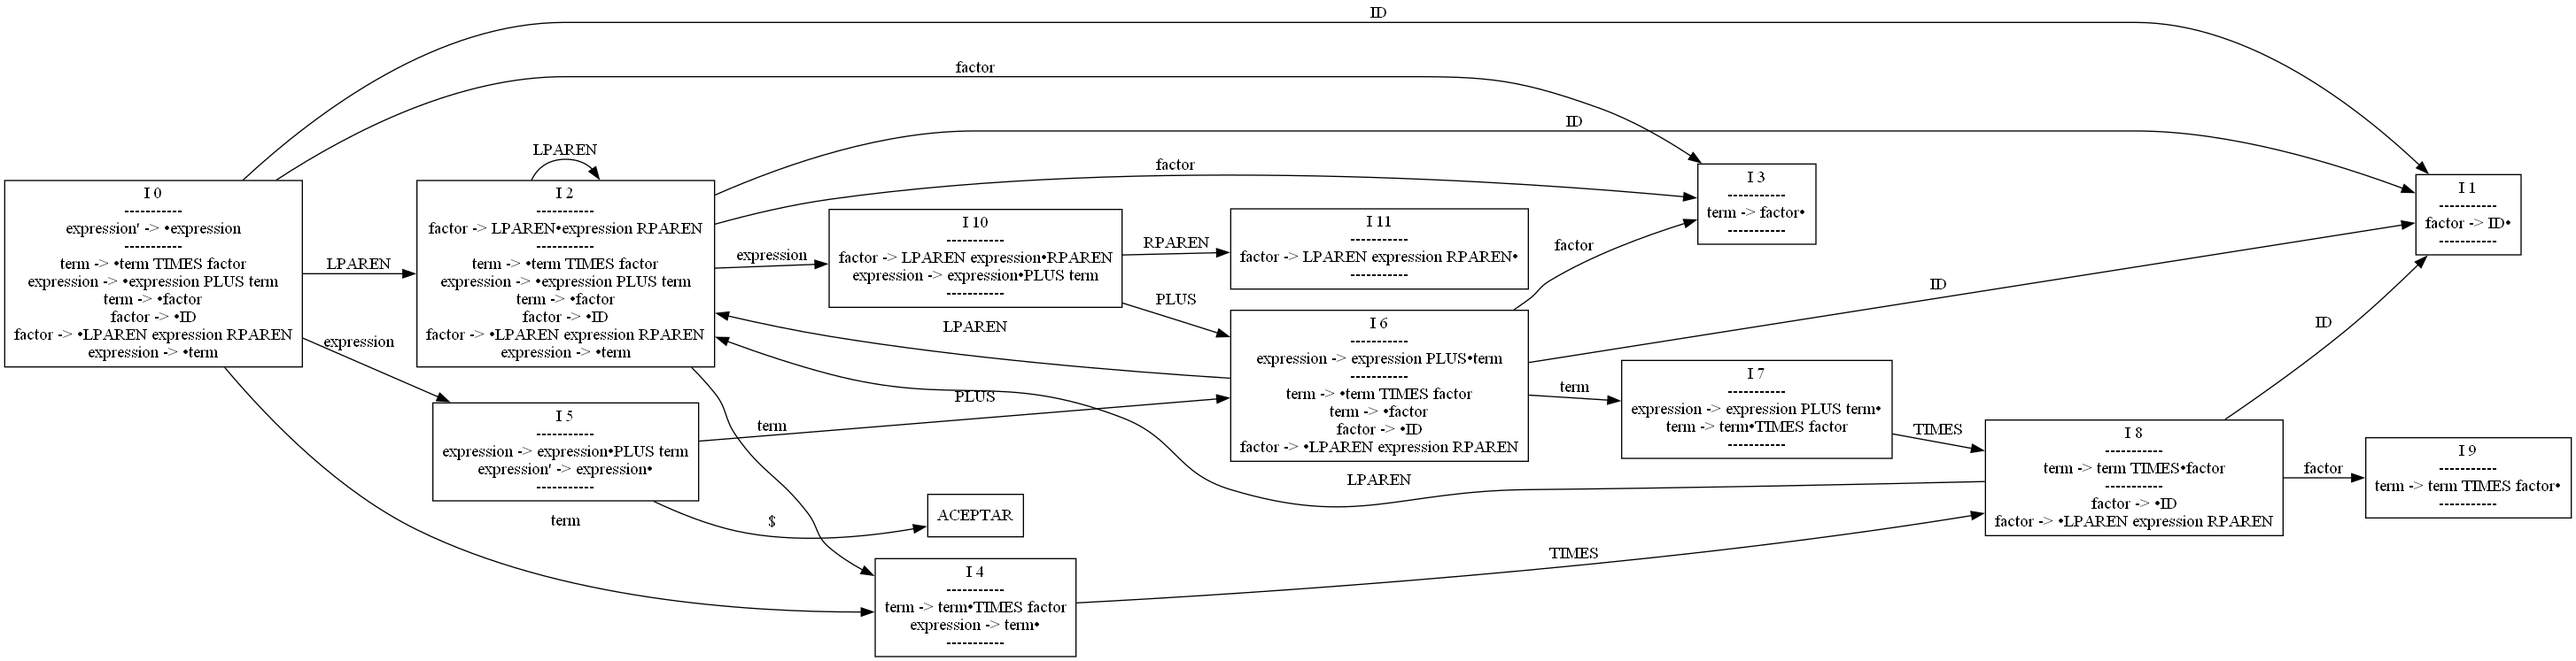
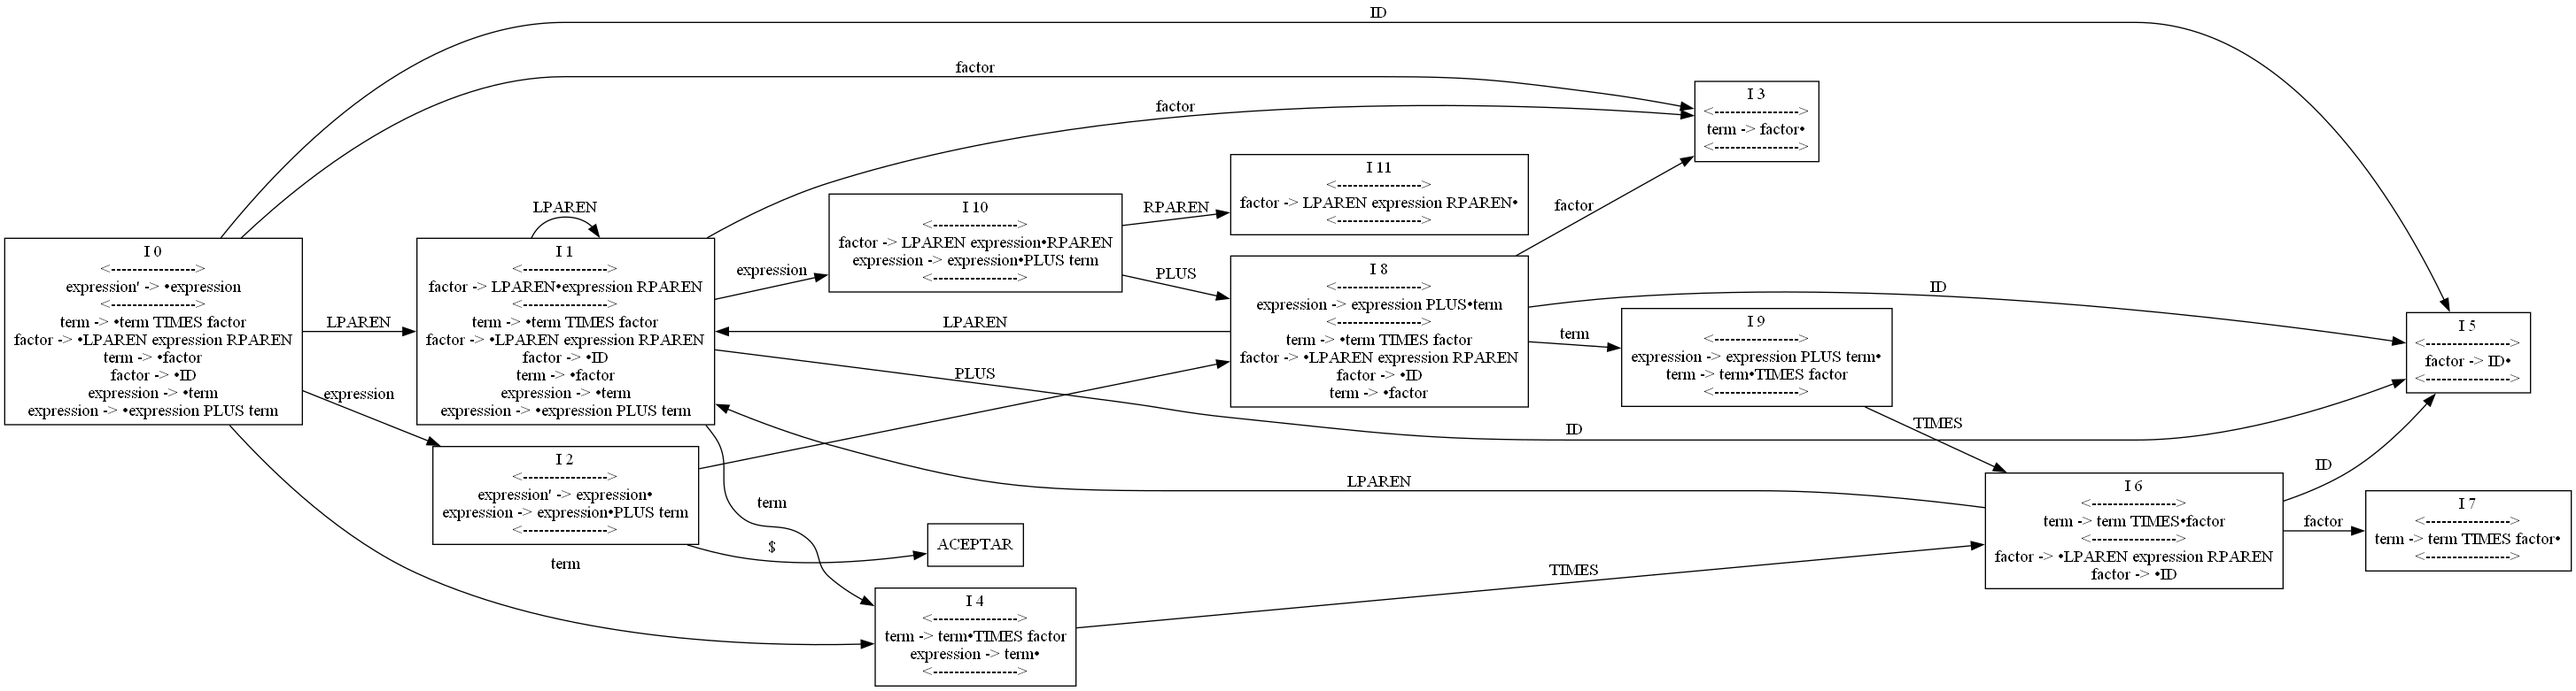
comprobar los tokens del lex para actuar en el yalp

diff --git a/LabE.py b/LabE.py
@@ -3,21 +3,27 @@ from LL import first_sets, follow_sets
 from graficar import dibujar_lr0
 import re
 
+# toma el nombre del archivo YALP como argumento y devuelve el contenido del archivo como una cadena
 
-def read_yalp_file(filename):
+
+def leer_yalp(filename):
     with open(filename, 'r') as file:
         content = file.read()
     return content
 
+# toma el contenido del archivo YALP como argumento y devuelve dos secciones separadas de tokens y producciones, eliminando la sección opcional de encabezado
 
-def split_sections(content):
+
+def separar_yalp(content):
     sections = content.split('%%')
     tokens_section = sections[0]
     productions_section = sections[1]
     return tokens_section, productions_section
 
+# procesa la sección de tokens del archivo YALP y devuelve una lista de tokens definidos en esa sección
 
-def process_tokens_section(content):
+
+def procesar_tokens(content):
     tokens = []
     lines = content.split('\n')
     for line in lines:
@@ -26,8 +32,10 @@ def process_tokens_section(content):
             tokens.extend(line_tokens)
     return tokens
 
+# procesa la sección de producciones del archivo YALP y devuelve un diccionario que contiene las reglas de producción
 
-def process_productions_section(content):
+
+def procesar_producciones(content):
     productions = {}
     content = re.sub(r'/\*.*?\*/', '', content,
                      flags=re.DOTALL)  # Eliminar comentarios
@@ -64,13 +72,17 @@ def process_productions_section(content):
                 production_rules.append(line)
     return productions
 
+# procesa el archivo completo
 
-def parse_yalp_file(filename):
-    content = read_yalp_file(filename)
-    tokens_section, productions_section = split_sections(content)
-    tokens = process_tokens_section(tokens_section)
-    productions = process_productions_section(productions_section)
+
+def procesar_yalp(filename):
+    content = leer_yalp(filename)
+    tokens_section, productions_section = separar_yalp(content)
+    tokens = procesar_tokens(tokens_section)
+    productions = procesar_producciones(productions_section)
     return tokens, productions
+
+#  toma el diccionario de producciones y devuelve una versión modificada del mismo diccionario en la que cada regla de producción se ha convertido en una lista de elementos separados por espacio
 
 
 def convert_productions(productions_dict):
@@ -79,50 +91,76 @@ def convert_productions(productions_dict):
         converted_productions[key] = [rule.split() for rule in value]
     return converted_productions
 
+# verifica si los tokens del yalp se encuentran en los tokens del lex
 
-tokens, productions_dict = parse_yalp_file('slr-1.yalp')
+
+def same_content(tokens_lex, tokens):
+    return sorted(tokens_lex) == sorted(tokens)
+
+
+archivo = input("Ingrese el nombre del archivo a ejecutar: ")
+
+# Abrir y leer el archivo
+with open(archivo + ".yal", "r") as f:
+    content = f.read()
+
+# Dividir el contenido del archivo en líneas
+lines = content.split("\n")
+
+# Buscar la línea que contiene "rule tokens"
+rule_tokens_index = None
+for i, line in enumerate(lines):
+    if re.match(r"^rule tokens = .*?$", line):
+        rule_tokens_index = i
+        break
+
+# Extraer el contenido de las llaves luego de cada token en las líneas siguientes
+tokens_lex = []
+if rule_tokens_index is not None:
+    for line in lines[rule_tokens_index + 1:]:
+        tokens_lex.extend(re.findall(r"\{\s*(.+?)\s*\}", line))
+
+
+tokens, productions_dict = procesar_yalp(archivo + '.yalp')
 converted_productions = convert_productions(productions_dict)
-# productions = [(nt, rule) for nt, rules in productions_dict.items() for rule in rules]
-# print("----------------------")
-# print(converted_productions)
-# print("----------------------")
-# print(tokens)
 
-states, transitions = canonical_collection(converted_productions)
+if same_content(tokens_lex, tokens):
+    states, transitions = canonical_collection(converted_productions)
 
-# Imprimir estados y transiciones
-print('\nEstados:')
-for i, state in enumerate(states):
-    print(f'{i}: {state}')
+    # Imprimir estados y transiciones
+    print('\nEstados:')
+    for i, state in enumerate(states):
+        print(f'{i}: {state}')
 
-print('\nTransiciones:')
-for transition in transitions:
-    print(transition)
+    print('\nTransiciones:')
+    for transition in transitions:
+        print(transition)
 
-# Funcion para dibujar el automata lr(0)
-dibujar_lr0(states, transitions)
+    # Funcion para dibujar el automata lr(0)
+    dibujar_lr0(states, transitions)
 
-# Funciones Primero y Siguiente
-print("\nPrimero y Siguiente")
+    # Funciones Primero y Siguiente
+    print("\nPrimero y Siguiente")
 
+    def convert_productions(productions):
+        converted_productions = {}
+        for key, value in productions.items():
+            converted_productions[key] = [prod.split() for prod in value]
+        return converted_productions
 
-def convert_productions(productions):
-    converted_productions = {}
-    for key, value in productions.items():
-        converted_productions[key] = [prod.split() for prod in value]
-    return converted_productions
+    print("\nDiccionario de producciones: ", productions_dict)
 
+    converted_prod = convert_productions(productions_dict)
+    first = first_sets(converted_prod)
+    follow = follow_sets(converted_prod, first)
 
-print("\nDiccionario de producciones: ", productions_dict)
+    print("\nPrimeros:")
+    for non_terminal, first_set in first.items():
+        print(f"{non_terminal}: {first_set}")
 
-converted_prod = convert_productions(productions_dict)
-first = first_sets(converted_prod)
-follow = follow_sets(converted_prod, first)
+    print("\nSiguiente:")
+    for non_terminal, follow_set in follow.items():
+        print(f"{non_terminal}: {follow_set}")
 
-print("\nPrimeros:")
-for non_terminal, first_set in first.items():
-    print(f"{non_terminal}: {first_set}")
-
-print("\nSiguiente:")
-for non_terminal, follow_set in follow.items():
-    print(f"{non_terminal}: {follow_set}")
+else:
+    print("Los Tokens del yalp no son iguales a los tokens del lex")
